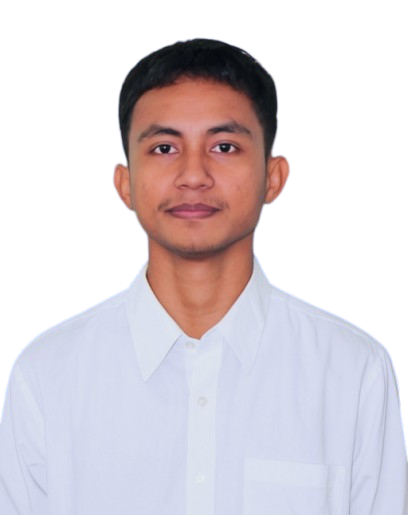
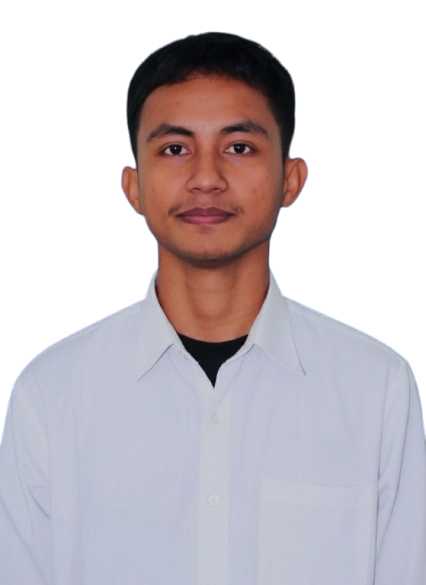
UPDATE

diff --git a/index.html b/index.html
@@ -98,14 +98,14 @@
                 </div>
 
                 <div class="home__social">
-                    <a href="#" target="_blank" class="home__social-link">
-                        <i class='bx bxl-linkedin'></i>
+                    <a href="https://www.instagram.com/riorainnn" target="_blank" class="home__social-link">
+                        <i class='bx bxl-instagram'></i>
                     </a>
-                    <a href="#" target="_blank" class="home__social-link">
+                    <a href="https://www.github.com/rioreiner" target="_blank" class="home__social-link">
                         <i class='bx bxl-github'></i>
                     </a>
-                    <a href="#" target="_blank" class="home__social-link">
-                        <i class='bx bxl-dribbble'></i>
+                    <a href="https://www.tiktok.com/@rioakarain" target="_blank" class="home__social-link">
+                        <i class='bx bxl-tiktok'></i>
                     </a>
                 </div>
 
@@ -122,7 +122,7 @@
             <h2 class="section__title">About Me</h2>
 
             <div class="about__container container grid">
-                <img src="assets/img/about.jpg" alt="" class="about__img">
+                <img src="assets/img/about.png" alt="" class="about__img">
 
                 <div class="about__data">
                     <div class="about__info">
@@ -144,7 +144,7 @@
                     </div>
 
                     <p class="about__description">
-                        Hallo ppl, Saya Rio Reiner, saya mahasiswa program studi Sistem Informasi yang saat ini sedang menempuh pendidikan di ITB STIKOM Ambon. Arigatou gozaimasu
+                        Hallo ppl, Saya Rio Reiner, saya manusia biasa , Makan nasi
                     </p>
 
                     <a href="#contact" class="button about__button-contact">Contact Me</a>

diff --git a/assets/css/styles.css b/assets/css/styles.css
@@ -342,7 +342,7 @@ body.light-theme {
     hsla(var(--first-hue), var(--sat), var(--lig), 0.1)
   );
 
-  border-radius: 10rem 10rem 1rem 1rem;
+  border-radius: 15rem 15rem 15rem 15rem;
   display: flex;
   align-items: flex-end;
   justify-content: center;
